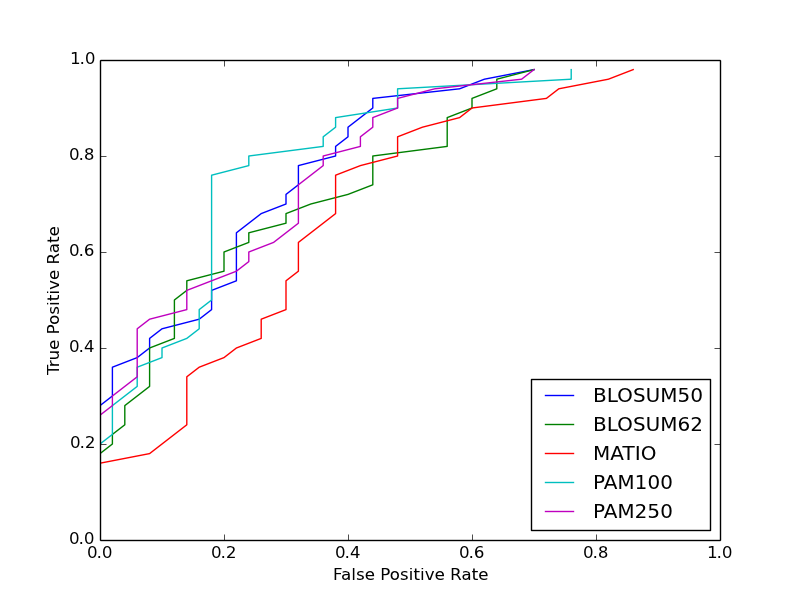
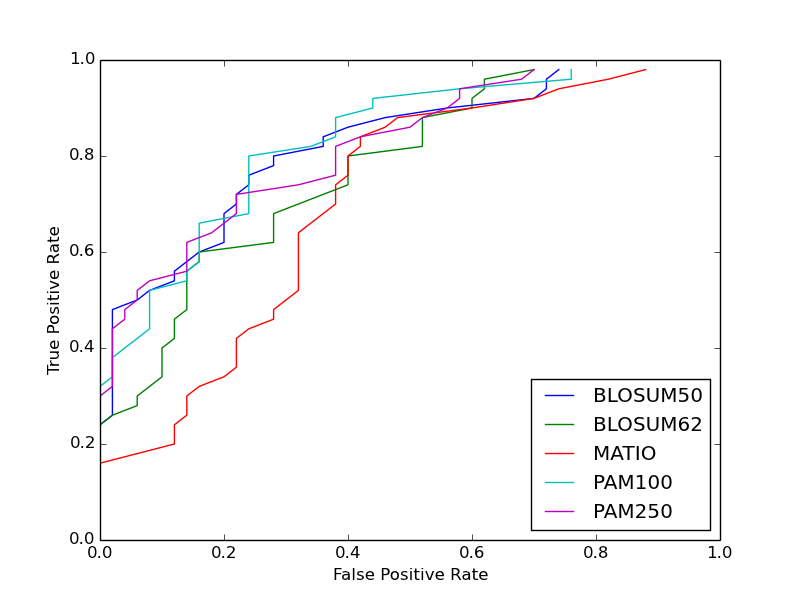
[['BLOSUM50', 0.22], ['BLOSUM62', 0.32], ['MATIO', 0.38], ['PAM100', 0.24], ['PAM250', 0.22]] ROC curve for init 13, ext 3

diff --git a/SmithWaterman/seq_list_SW.py b/SmithWaterman/seq_list_SW.py
@@ -90,15 +90,15 @@ def main():
     neg_seq_list_file = home+neg_seq_list_name+'.txt'
     subMatrixFile = sys.argv[4]
     subMatrixFile_list = ['BLOSUM50', 'BLOSUM62', 'MATIO', 'PAM100', 'PAM250']
-    FP_array = np.zeros([120,3])
-    #FP_array = []
+    #FP_array = np.zeros([120,3])
+    FP_array = []
     i=0
     #gap_init_cost, gap_ext_cost
     [sub_Matrix, origSubMatrix, AAlist] = subMdict.mk_dict(home+subMatrixFile)
     
     
     #for testing gap costs
-    
+    '''
     for gap_init in range(1,21):
         for gap_ext in range(1,6):
             
@@ -118,16 +118,15 @@ def main():
     
     # for testing input matrices
     for i in range(0,len(subMatrixFile_list)):
-        [sub_Matrix, origsubMatrix] = subMdict.mk_dict(home+subMatrixFile_list[i])
+        [sub_Matrix, origsubMatrix, AAlist] = subMdict.mk_dict(home+subMatrixFile_list[i])
     
-        [pos_score_list, pos_alignment_array] = scores_from_seq_list(home,pos_seq_list_file, sub_Matrix, origSubMatrix,13, 2)
-        [neg_score_list, neg_alignment_array] = scores_from_seq_list(home,neg_seq_list_file, sub_Matrix, origSubMatrix, 13, 2)
+        [pos_score_list, pos_alignment_array] = scores_from_seq_list(home,pos_seq_list_file, sub_Matrix, origSubMatrix,13, 3)
+        [neg_score_list, neg_alignment_array] = scores_from_seq_list(home,neg_seq_list_file, sub_Matrix, origSubMatrix, 13, 3)
         false_pos_rt= false_pos_rate(pos_score_list, neg_score_list)
         FP_array.append([subMatrixFile_list[i], false_pos_rt])
         
     print FP_array
-  
-   '''         
+         
           
             
             
